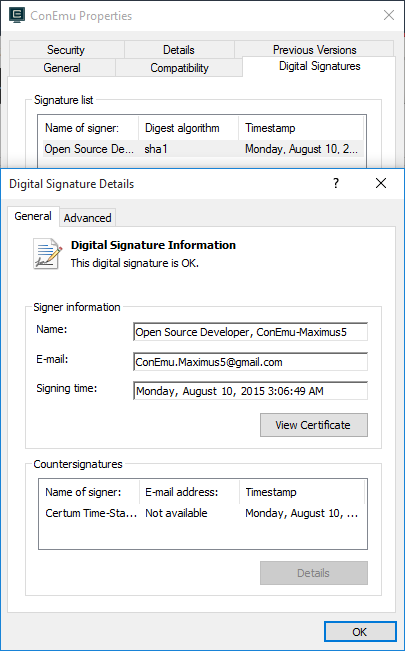
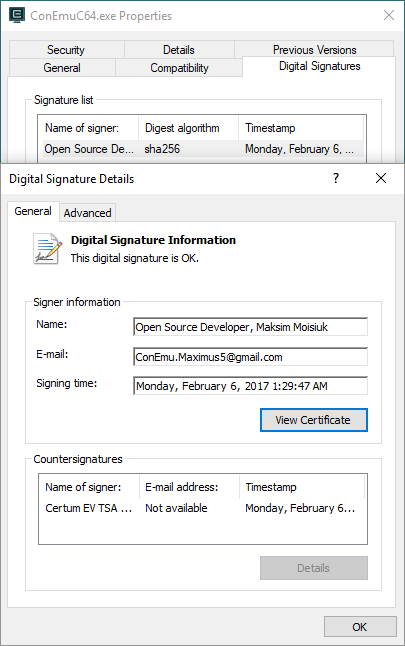
Update certificate info

diff --git a/en/Certificate.md b/en/Certificate.md
@@ -10,15 +10,17 @@ breadcrumbs:
 
 # Open Source Developer, ConEmu-Maximus5
 
-With courtesy of Certum, ConEmu's binaries now are signed as ‘Open Source Developer, ConEmu-Maximus5’.
+All ConEmu's binaries are signed as ‘Open Source Developer, Maksim Moisiuk’.
 
 ## Why to use certificate?   {#Why_to_use_certificate}
 
 * You can check integrity of ConEmu executable files.
 * Avoid Windows SmartScreen prevention of unrecognized program from starting (Installer).
-* Vista and higher ‘User account control’ confirmation will be more friendly.<br/>
-		![ConEmu. UAC confirmation](/img/ConEmuUAC.png)
+* Vista and higher ‘User account control’ confirmation will be more friendly.
 * More friendly attitude from antiviral programs ([AVP](http://www.kaspersky.com/) for example).
+
+![ConEmu. UAC confirmation](/img/ConEmuUAC.png)
+
 
 ## Checking the integrity   {#Checking_integrity}
 
